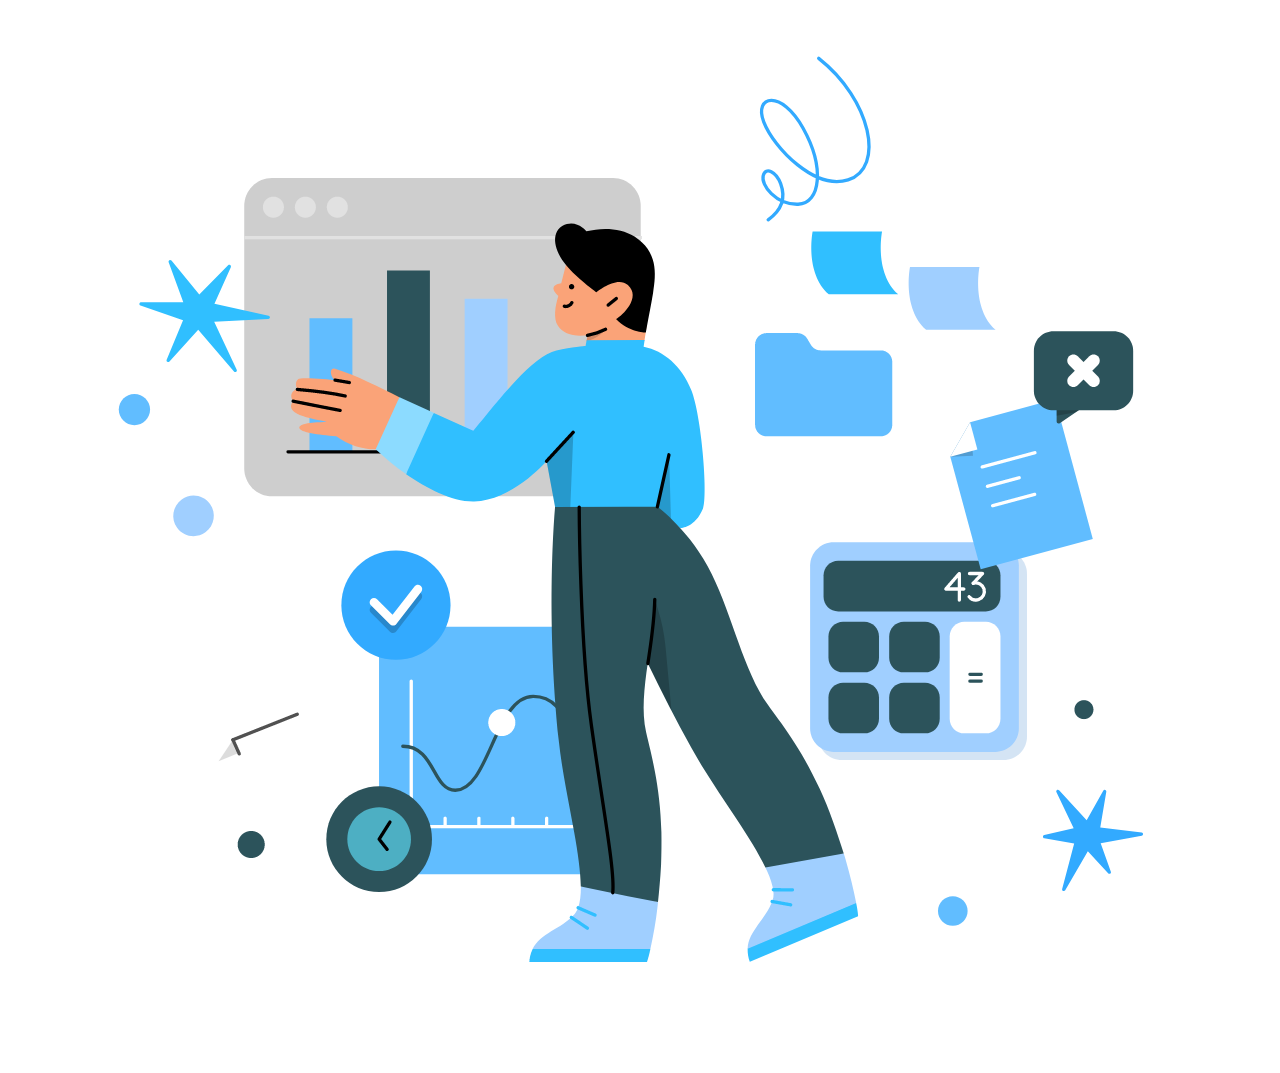
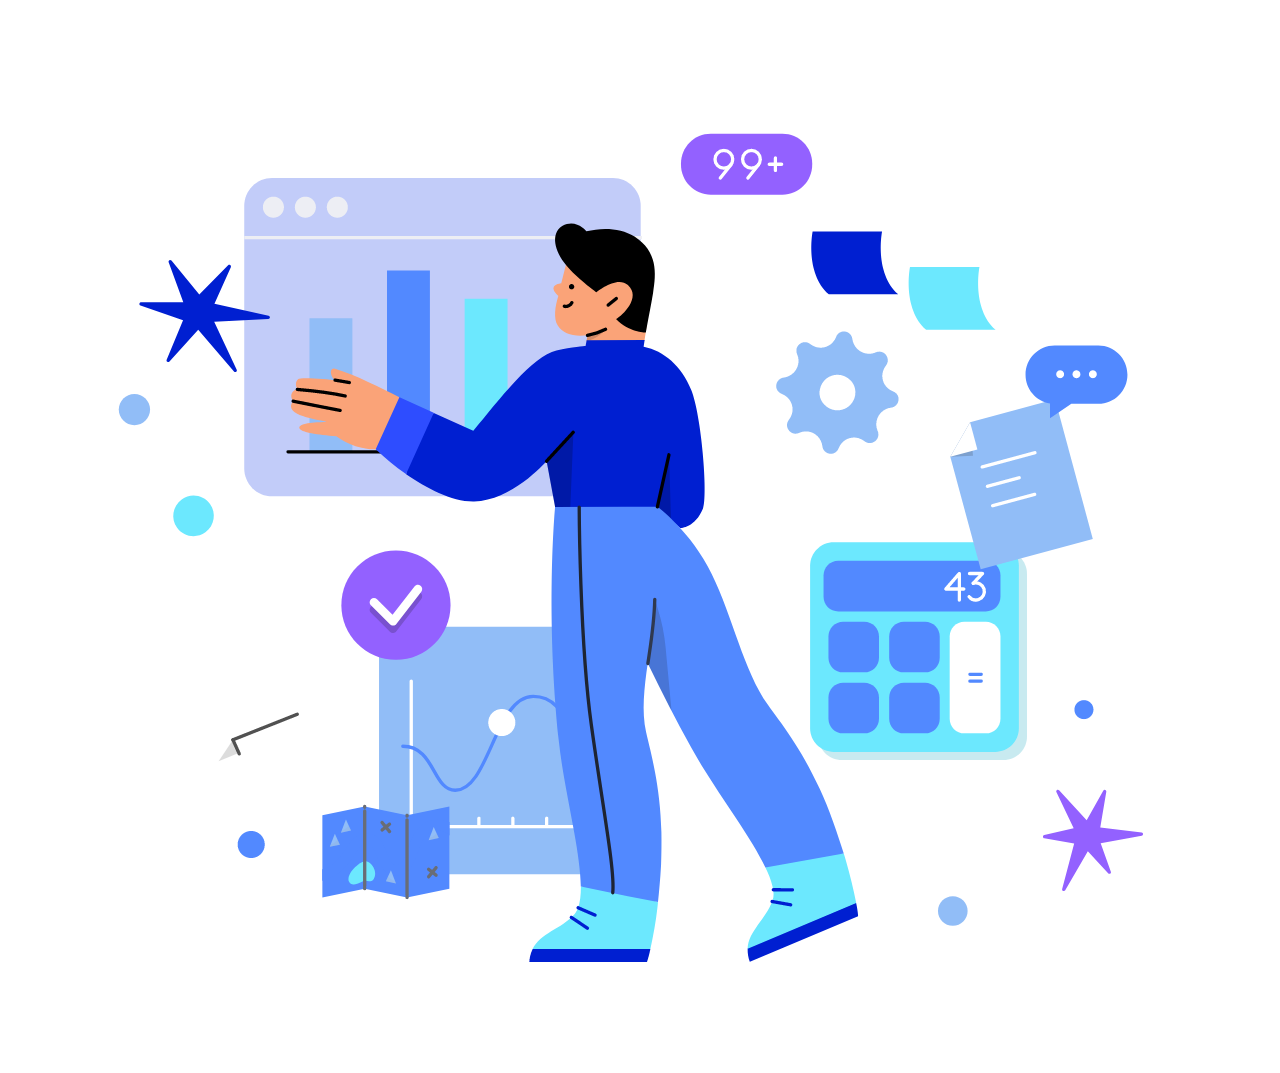
feat: change illustration colors

diff --git a/src/components/HowItWorks/styles.css b/src/components/HowItWorks/styles.css
@@ -7,7 +7,7 @@
   display: flex;
   flex-flow: column nowrap;
   align-items: center;
-  padding: var(--padding-desktop);
+  padding: var(--padding-tb-desktop) var(--padding-lr-desktop) 2rem;
 }
 
 .HowItWorks>.Wrapper>.Title {
@@ -41,7 +41,7 @@
   flex: 1;
 }
 
-/* step list - reset button style */
+/* step list content - reset button style */
 .HowItWorks>.ContentWrapper>.Steps>.Step>button {
   display: flex;
   flex-flow: row nowrap;
@@ -91,7 +91,7 @@
   transition: var(--animation-fast);
 }
 
-/* step list - unactive */
+/* step list content - button unactive */
 .HowItWorks>.ContentWrapper>.Steps>.Step>button {
   background: transparent;
 }
@@ -109,21 +109,28 @@
   color: var(--gull-gray);
 }
 
-/* active */
+/* step list content - button active and hover */
 .HowItWorks>.ContentWrapper>.Steps>.Step.Active>button {
   background-color: var(--mirage);
 }
 
-.HowItWorks>.ContentWrapper>.Steps>.Step.Active>button>.Number {
+.HowItWorks>.ContentWrapper>.Steps>.Step>button:hover {
+  background-color: var(--faint);
+}
+
+.HowItWorks>.ContentWrapper>.Steps>.Step.Active>button>.Number,
+.HowItWorks>.ContentWrapper>.Steps>.Step>button:hover>.Number {
   background: var(--caribbean-green);
   color: var(--midnight-express);
 }
 
-.HowItWorks>.ContentWrapper>.Steps>.Step.Active>button>.Content>.Title {
+.HowItWorks>.ContentWrapper>.Steps>.Step.Active>button>.Content>.Title,
+.HowItWorks>.ContentWrapper>.Steps>.Step>button:hover>.Content>.Title {
   color: var(--caribbean-green);
 }
 
-.HowItWorks>.ContentWrapper>.Steps>.Step.Active>button>.Content>.Description {
+.HowItWorks>.ContentWrapper>.Steps>.Step.Active>button>.Content>.Description,
+.HowItWorks>.ContentWrapper>.Steps>.Step>button:hover>.Content>.Description {
   color: var(--white);
 }
 

diff --git a/src/main.css b/src/main.css
@@ -23,6 +23,7 @@
   --link-water: #D0D5DA;
   --clay: #BBC3CE;
   --gull-gray: #9da9b6;
+  --faint: #1A1B30;
   --mirage: #1B1F32;
   --midnight-express: #18182E;
   --tundora: #404040;
@@ -122,5 +123,5 @@ a {
 
 body {
   background: rgb(1, 27, 182);
-  background: linear-gradient(0deg, rgba(1, 27, 182, 1) 0%, rgb(50, 50, 189) 100%);
+  background: linear-gradient(0deg, #fff 0%, rgb(50, 50, 189) 100%);
 }

diff --git a/src/components/Teaser/styles.css b/src/components/Teaser/styles.css
@@ -242,6 +242,7 @@
   border: 0;
   border-radius: var(--border-radius-circle);
   background-color: var(--clay);
+  transition: var(--animation-fast);
 }
 
 .Teaser>.ContentWrapper>.Container>.ContentSlide>.Wrapper>.Indicators>.Indicator.Active {
